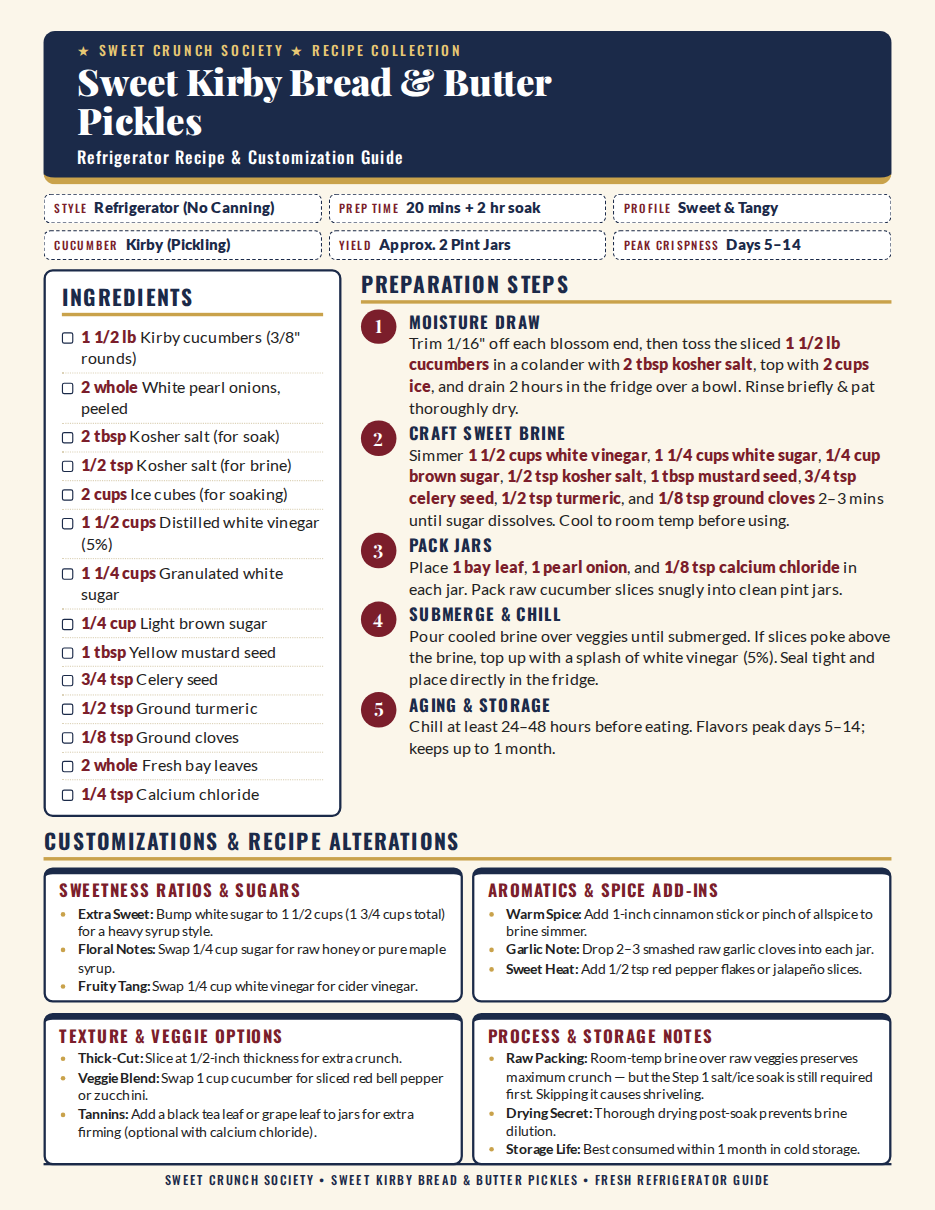
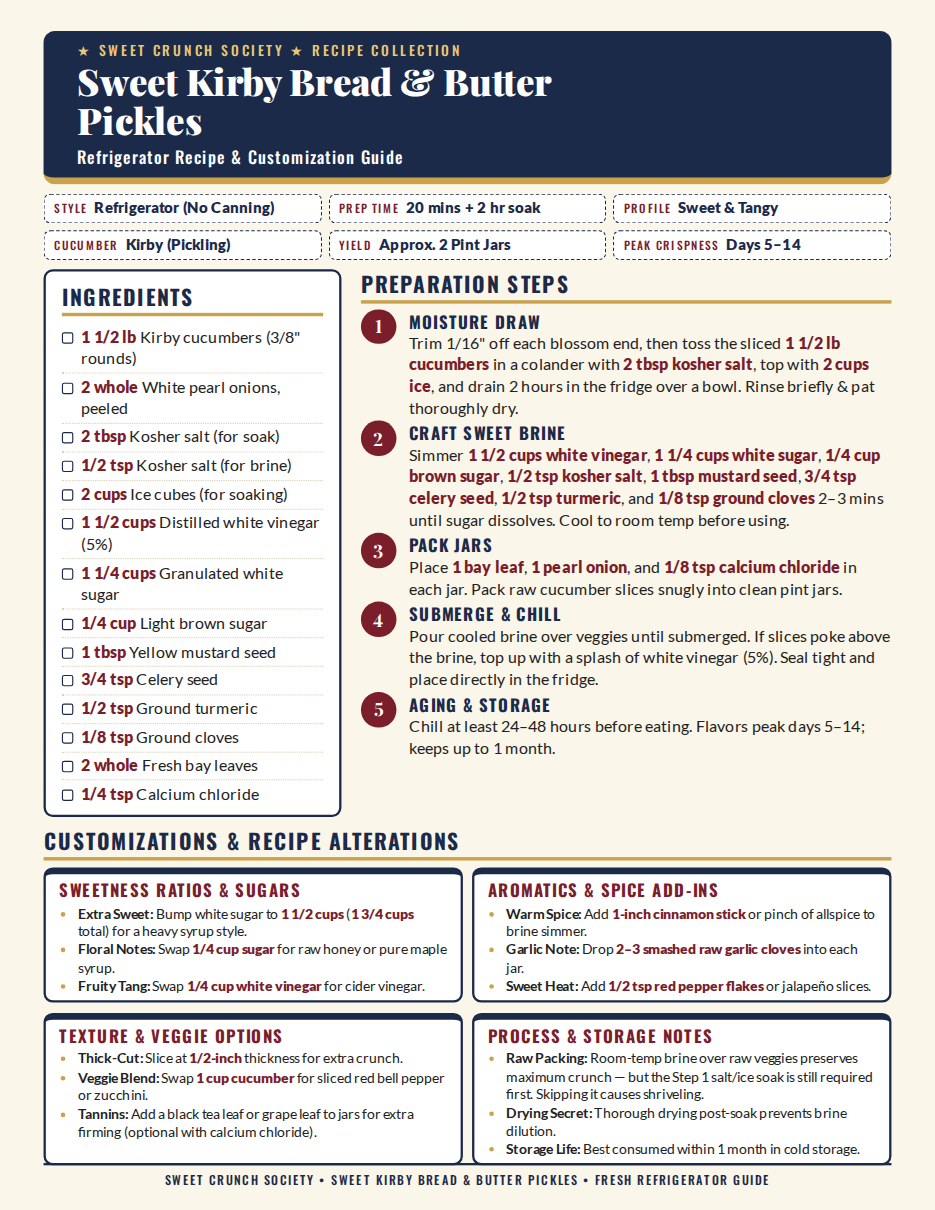
style: highlight ingredient amounts in Customizations cards
Amounts in the Customizations & Recipe Alterations cards (e.g. 1/4 cup
sugar, 1/2 tsp red pepper flakes, 6 per jar, 1 tsp dill seed) were plain
text while the ingredient list and prep steps already show amounts in
bold brick red. Add a `.card li strong` rule matching `ol.steps strong`
and wrap the amounts on both the sweet and zesty cards. Durations such
as storage life are left as normal text since they aren't ingredient
amounts.

Regenerate docs/preview.png and docs/preview-zesty.png so the README
previews reflect the change.

Changed region(s): [[0.5273, 0.7339, 0.9305, 0.8256], [0.093, 0.7339, 0.4652, 0.8256], [0.2171, 0.8562, 0.4652, 0.9174]]

diff --git a/index.html b/index.html
@@ -108,6 +108,7 @@
   .card ul { margin: 0; padding-left: 16px; font-size: 9pt; line-height: 1.28; }
   .card li { margin-bottom: 1px; }
   .card li::marker { color: var(--gold); }
+  .card li strong { color: var(--brick); font-weight: 900; } /* inline amounts */
 
   footer {
     position: absolute; left: 0.4in; right: 0.4in; bottom: 0.2in; text-align: center;
@@ -176,24 +177,24 @@
         <div class="card">
           <h3>Sweetness Ratios &amp; Sugars</h3>
           <ul>
-            <li><b>Extra Sweet:</b> Bump white sugar to 1 1/2 cups (1 3/4 cups total) for a heavy syrup style.</li>
-            <li><b>Floral Notes:</b> Swap 1/4 cup sugar for raw honey or pure maple syrup.</li>
-            <li><b>Fruity Tang:</b> Swap 1/4 cup white vinegar for cider vinegar.</li>
+            <li><b>Extra Sweet:</b> Bump white sugar to <strong>1 1/2 cups</strong> (<strong>1 3/4 cups</strong> total) for a heavy syrup style.</li>
+            <li><b>Floral Notes:</b> Swap <strong>1/4 cup sugar</strong> for raw honey or pure maple syrup.</li>
+            <li><b>Fruity Tang:</b> Swap <strong>1/4 cup white vinegar</strong> for cider vinegar.</li>
           </ul>
         </div>
         <div class="card">
           <h3>Aromatics &amp; Spice Add-ins</h3>
           <ul>
-            <li><b>Warm Spice:</b> Add 1-inch cinnamon stick or pinch of allspice to brine simmer.</li>
-            <li><b>Garlic Note:</b> Drop 2–3 smashed raw garlic cloves into each jar.</li>
-            <li><b>Sweet Heat:</b> Add 1/2 tsp red pepper flakes or jalapeño slices.</li>
+            <li><b>Warm Spice:</b> Add <strong>1-inch cinnamon stick</strong> or pinch of allspice to brine simmer.</li>
+            <li><b>Garlic Note:</b> Drop <strong>2–3 smashed raw garlic cloves</strong> into each jar.</li>
+            <li><b>Sweet Heat:</b> Add <strong>1/2 tsp red pepper flakes</strong> or jalapeño slices.</li>
           </ul>
         </div>
         <div class="card">
           <h3>Texture &amp; Veggie Options</h3>
           <ul>
-            <li><b>Thick-Cut:</b> Slice at 1/2-inch thickness for extra crunch.</li>
-            <li><b>Veggie Blend:</b> Swap 1 cup cucumber for sliced red bell pepper or zucchini.</li>
+            <li><b>Thick-Cut:</b> Slice at <strong>1/2-inch</strong> thickness for extra crunch.</li>
+            <li><b>Veggie Blend:</b> Swap <strong>1 cup cucumber</strong> for sliced red bell pepper or zucchini.</li>
             <li><b>Tannins:</b> Add a black tea leaf or grape leaf to jars for extra firming (optional with calcium chloride).</li>
           </ul>
         </div>

diff --git a/index-zesty.html b/index-zesty.html
@@ -108,6 +108,7 @@
   .card ul { margin: 0; padding-left: 16px; font-size: 9pt; line-height: 1.28; }
   .card li { margin-bottom: 1px; }
   .card li::marker { color: var(--gold); }
+  .card li strong { color: var(--brick); font-weight: 900; } /* inline amounts */
 
   footer {
     position: absolute; left: 0.4in; right: 0.4in; bottom: 0.2in; text-align: center;
@@ -176,14 +177,14 @@
         <div class="card">
           <h3>Garlic Intensity</h3>
           <ul>
-            <li><b>Extra Garlicky:</b> Double the cloves to 6 per jar for a bold, assertive bite.</li>
+            <li><b>Extra Garlicky:</b> Double the cloves to <strong>6 per jar</strong> for a bold, assertive bite.</li>
             <li><b>Roasted Garlic:</b> Roast cloves before adding for a mellow, caramelized sweetness.</li>
           </ul>
         </div>
         <div class="card">
           <h3>Herb &amp; Spice Variations</h3>
           <ul>
-            <li><b>Dill Seed:</b> Swap fresh sprigs for 1 tsp dill seed per jar for deeper, earthier flavor.</li>
+            <li><b>Dill Seed:</b> Swap fresh sprigs for <strong>1 tsp dill seed</strong> per jar for deeper, earthier flavor.</li>
             <li><b>Peppercorn Blend:</b> Use a mix of black, white, and pink peppercorns for a more complex bite.</li>
           </ul>
         </div>
@@ -191,8 +192,8 @@
           <h3>Texture &amp; Cut Options</h3>
           <ul>
             <li><b>Spears:</b> Quarter cucumbers lengthwise for classic deli-style garlic spears.</li>
-            <li><b>Coins:</b> Keep 3/8" rounds as written for snacking and charcuterie boards.</li>
-            <li><b>Thick-Cut:</b> Slice at 1/2-inch thickness for extra crunch and chew.</li>
+            <li><b>Coins:</b> Keep <strong>3/8" rounds</strong> as written for snacking and charcuterie boards.</li>
+            <li><b>Thick-Cut:</b> Slice at <strong>1/2-inch</strong> thickness for extra crunch and chew.</li>
           </ul>
         </div>
         <div class="card">
